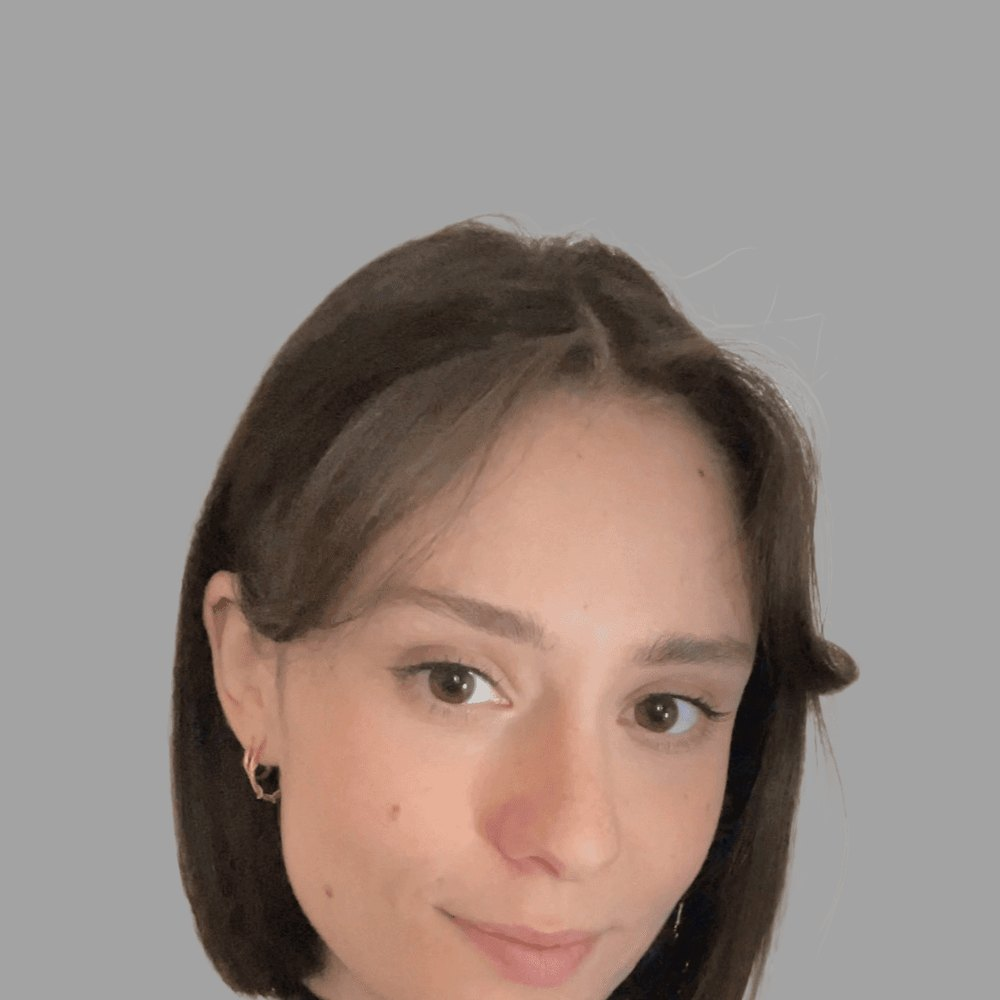
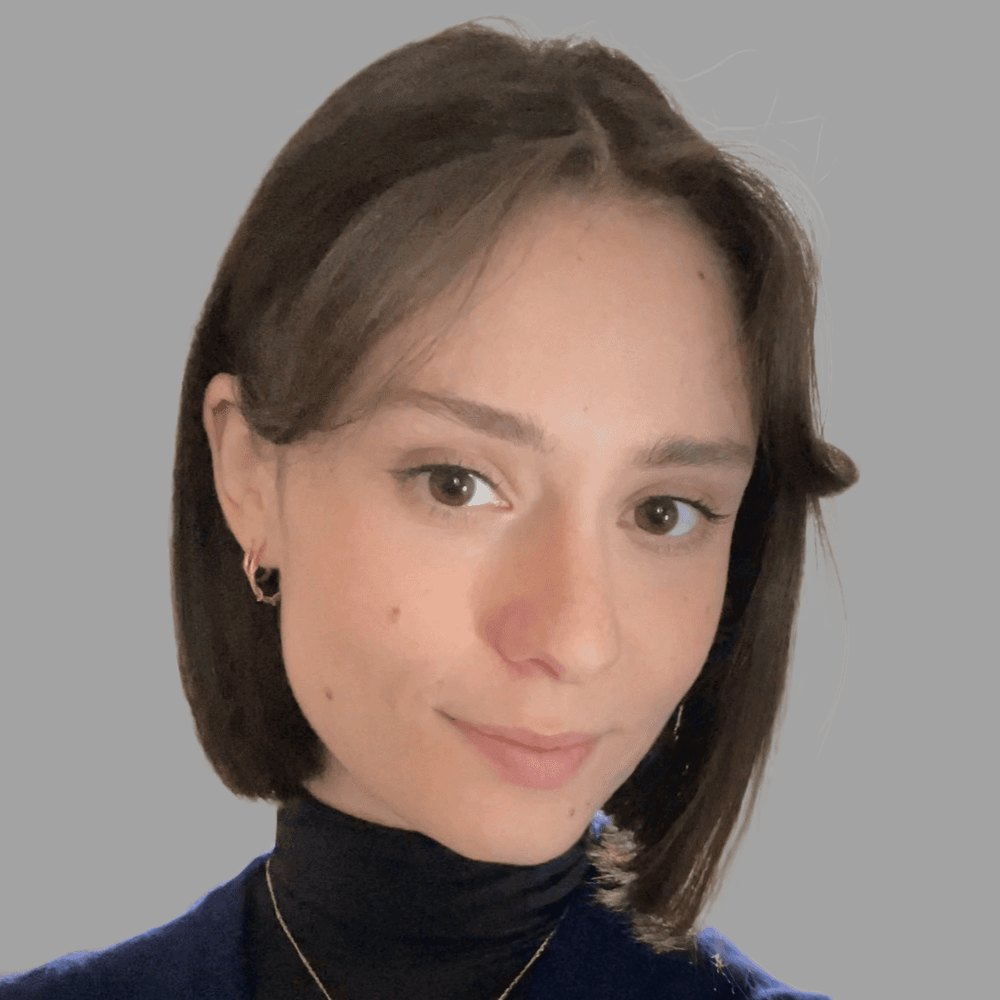
Re-crop Nicole, render portraits in black and white, even up the team cards
Four things, all of them about how people are shown.

Nicole's portrait was cropped from the top of the original, which cut her
face at the chin. Re-cropped from the vertical centre of the original file,
which is the only offset of the five I tried that holds the whole face,
headroom and some shoulder.

Portraits now render black and white, from `portraits: bw` in _config.yml by
way of a class on <body>. The image files stay in colour: a portrait gets
reused elsewhere and a greyscale JPEG cannot be un-greyed. It covers the team
grid, the home band, the experts on a project page and a person's own page,
and nothing else - project and publication imagery is untouched.

The team cards were all different heights, because a card's height followed
whatever was in it and only one card carried a tagline. The tagline is gone
from the grid - it belongs on the person's page, where it is read rather than
skimmed - and the grid now sets one row height for every card, with the card
as a flex column so the links row lands on the same line across the grid.
Cards are top-aligned rather than centred, so the portraits and names line up
across a row.

Every person now has an email and a LinkedIn, and the card shows those two
and nothing else, so every card has the same two rows. Everything else a
person links to stays on their own page.

Claude-Session: https://claude.ai/code/session_013yvRdL5WvGEbo8a8kksApF

diff --git a/assets/css/style.css b/assets/css/style.css
@@ -827,17 +827,28 @@ hr { border: 0; border-top: 1px solid var(--rule); margin: 2.5rem 0; }
 
 /* ---------- people ---------- */
 
+/* One size of card, whatever is in it. `grid-auto-rows: 1fr` makes every row
+   the height of the tallest card in the grid, and the flex column inside each
+   card then lets the portrait-and-text block take the slack, so the links row
+   sits on the same line across the whole grid. Without both halves the cards
+   step up and down as the roles wrap to one, two or three lines. */
 .people {
   list-style: none; padding: 0;
   display: grid;
   grid-template-columns: repeat(auto-fill, minmax(15rem, 1fr));
+  grid-auto-rows: 1fr;
   gap: .8rem;
   margin: 1.2rem 0 0;
 }
 .people li { margin: 0; }   /* padding and border are set with the card, below */
 
+/* Top-aligned, not centred. The cards are all one height now, so centring
+   would put each name at a different point down its card depending on how
+   many lines the role runs to, and a row of names at five different heights
+   reads as five misaligned cards. Aligned to the top, the portraits and the
+   names line up across the row and the slack falls at the bottom. */
 .people a {
-  display: flex; align-items: center; gap: .85rem;
+  display: flex; align-items: flex-start; gap: .85rem;
   padding: .7rem .85rem;
   background: var(--surface);
   border: 1px solid var(--rule);
@@ -863,11 +874,6 @@ hr { border: 0; border-top: 1px solid var(--rule); margin: 2.5rem 0; }
   color: var(--ink-soft); border: 1px solid var(--rule);
 }
 
-.people .pc-tag {
-  display: block; margin-top: .4rem;
-  font-size: .88rem; line-height: 1.45; color: var(--ink-soft);
-}
-
 /* The links row sits outside the card's own link, so it is its own set of tab
    stops rather than a link inside a link. It therefore has to opt out of the
    card styling that `.people a` applies: those rules make a bordered block,
@@ -882,13 +888,14 @@ hr { border: 0; border-top: 1px solid var(--rule); margin: 2.5rem 0; }
 
 /* The card and its links read as one block. */
 .people li {
+  display: flex; flex-direction: column;
   background: var(--surface);
   border: 1px solid var(--rule);
   border-radius: 2px;
   padding-bottom: .55rem;
 }
 .people li:hover { border-color: var(--accent); }
-.people a { background: none; border: 0; border-radius: 0; }
+.people a { background: none; border: 0; border-radius: 0; flex: 1 1 auto; }
 .people a:hover { border-color: transparent; }
 
 .person-txt { min-width: 0; }
@@ -903,6 +910,18 @@ hr { border: 0; border-top: 1px solid var(--rule); margin: 2.5rem 0; }
   width: 8.5rem; height: 8.5rem; flex: 0 0 auto;
   border-radius: 2px; object-fit: cover; object-position: top center;
   background: var(--surface);
+}
+
+/* Portraits in black and white, from `portraits: bw` in _config.yml by way of
+   a class on <body>. It is done here rather than in the image files so the
+   originals stay in colour: a portrait gets reused in a slide, a press note or
+   a partner's page, and a greyscale JPEG cannot be un-greyed.
+   `grayscale(1)` and not `saturate(0)`: grayscale weights the channels by
+   luminance, so skin tones keep their tonal separation instead of flattening.
+   Only portraits. Project and publication imagery is untouched. */
+body.portraits-bw .people .pc-face,
+body.portraits-bw .person-head .portrait {
+  filter: grayscale(1);
 }
 
 .person-links { margin: .9rem 0 0; font-size: .9rem; display: flex; flex-wrap: wrap; gap: 1rem; }

diff --git a/_includes/peoplelist.html b/_includes/peoplelist.html
@@ -2,7 +2,19 @@
   People as cards. Expects: include.people
 
   Each card shows a square portrait, the name, the role, the employer line,
-  the tagline, and a row of links.
+  and a row with the person's email and LinkedIn.
+
+  No tagline here. A tagline is one or two sentences, so a card carrying one
+  is two or three times the height of a card without, and a grid of cards
+  where one is three times its neighbour reads as broken rather than as
+  emphasis. The tagline belongs on the person's own page, where there is room
+  for it to be read rather than skimmed.
+
+  Only email and LinkedIn on the card, even where the person's front matter
+  carries more. Every card then has the same two rows, so the cards are the
+  same shape; the rest of a person's links - a profile at their university, an
+  ORCID, a personal site - are on their own page, which is where someone who
+  wants them is heading anyway.
 
   Where there is no portrait yet, the card shows the person's initials on a
   token-coloured square rather than a stock photograph. A stock face standing
@@ -42,7 +54,6 @@
         {%- else -%}
         <span class="where">RISE</span>
         {%- endif -%}
-        {%- if person.tagline %}<span class="pc-tag">{{ person.tagline }}</span>{% endif -%}
       </span>
     </a>
 
@@ -50,10 +61,11 @@
       Outside the card's own link, because a link inside a link is not valid
       and the keyboard order would be unusable.
     {%- endcomment -%}
-    {%- if person.email or person.links.size > 0 %}
+    {%- assign card_links = person.links | where: "title", "LinkedIn" -%}
+    {%- if person.email or card_links.size > 0 %}
     <p class="pc-links">
       {%- if person.email %}<a href="mailto:{{ person.email }}">Email</a>{% endif -%}
-      {%- for l in person.links %}<a href="{{ l.url }}">{{ l.title }}</a>{% endfor -%}
+      {%- for l in card_links %}<a href="{{ l.url }}">{{ l.title }}</a>{% endfor -%}
     </p>
     {%- endif -%}
   </li>

diff --git a/_layouts/default.html b/_layouts/default.html
@@ -42,7 +42,7 @@
   {%- seo title=false -%}
   {%- feed_meta -%}
 </head>
-<body>
+<body{% if site.portraits == "bw" %} class="portraits-bw"{% endif %}>
 
 <a class="skip" href="#content">Skip to content</a>
 

diff --git a/_people/barbara-droste-luckmann.md b/_people/barbara-droste-luckmann.md
@@ -6,9 +6,11 @@ cite: "Droste-Luckmann B"
 group: rise
 order: 2
 portrait: /assets/img/people/barbara-droste-luckmann.jpg
-# email: "barbara.droste-luckmann@riselabs.at"
+email: "barbara.droste-luckmann@riselabs.at"
 summary: "Runs the office at RISE, and the institute's stakeholder and communications work."
-links: []
+links:
+  - title: LinkedIn
+    url: "https://www.linkedin.com/in/barbara-luckmann-24722867/"
 ---
 
 <!-- DRAFT. Live deliberately, at the same scope as the rest of the team,

diff --git a/_people/nicole-di-santo.md b/_people/nicole-di-santo.md
@@ -7,8 +7,11 @@ group: collaborator
 org: "Global Building Data Initiative, EPFL"
 order: 1
 portrait: /assets/img/people/nicole-di-santo.jpg
+email: "office@riselabs.at"
 summary: "Leads whole life carbon assessment and digital integrations at the Global Building Data Initiative."
-links: []
+links:
+  - title: LinkedIn
+    url: "https://www.linkedin.com/in/nicole-di-santo-eng-phd/"
 ---
 
 <!-- DRAFT. Live deliberately, at the same scope as the rest of the team,

diff --git a/_people/zuhaib-batra.md b/_people/zuhaib-batra.md
@@ -7,8 +7,11 @@ group: collaborator
 org: "Global Building Data Initiative, EPFL"
 order: 2
 portrait: /assets/img/people/zuhaib-batra.jpg
+email: "office@riselabs.at"
 summary: "Leads global policy work on energy and emissions at the Global Building Data Initiative."
-links: []
+links:
+  - title: LinkedIn
+    url: "https://www.linkedin.com/in/zuhaibbatra/"
 ---
 
 <!-- DRAFT. Live deliberately, at the same scope as the rest of the team,

diff --git a/_people/darmarajan-chinasamy.md b/_people/darmarajan-chinasamy.md
@@ -7,6 +7,7 @@ group: collaborator
 org: "Global Building Data Initiative, University of Cape Town"
 order: 3
 portrait: /assets/img/people/darmarajan-chinasamy.jpg
+email: "office@riselabs.at"
 summary: "Works on whole life carbon assessment in emerging markets, with the Global Building Data Initiative."
 links:
   - title: LinkedIn
